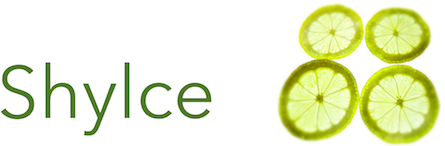
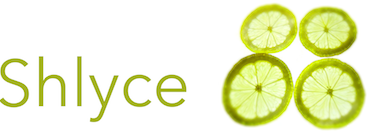
Spelling

diff --git a/benchmark.js b/benchmark.js
@@ -21,7 +21,7 @@ function genN() {
 }
 
 new Benchmark.Suite()
-.add('Shylce', () => {
+.add('Shlyce', () => {
   binarySearch(shlyce, genN());
 })
 .add('[].slice', () => {

diff --git a/README.md b/README.md
@@ -20,22 +20,22 @@ arr[1] === 99;
 
 Benchmarks
 ----------
-Shylce slices in constant time and space, while `Array.slice` returns a new array, requiring linear time and space to copy. This difference can speed up our code tremendously.
+Shlyce slices in constant time and space, while `Array.slice` returns a new array, requiring linear time and space to copy. This difference can speed up our code tremendously.
 
 Consider a [recursive binary search](./benchmark.js) of N elements:
 ```
 N=250,000
-Shylce x 21,719 ops/sec ±2.09% (76 runs sampled)
+Shlyce x 21,719 ops/sec ±2.09% (76 runs sampled)
 [].slice x 935 ops/sec ±2.63% (71 runs sampled)
 
 N=500,000
-Shylce x 20,628 ops/sec ±1.95% (80 runs sampled)
+Shlyce x 20,628 ops/sec ±1.95% (80 runs sampled)
 [].slice x 386 ops/sec ±2.77% (67 runs sampled)
 
 N=1,000,000
-Shylce x 18,481 ops/sec ±1.94% (76 runs sampled)
+Shlyce x 18,481 ops/sec ±1.94% (76 runs sampled)
 [].slice x 180 ops/sec ±2.72% (65 runs sampled)
-Fastest is Shylce
+Fastest is Shlyce
 ```
 
 Note that a well implemented binary search should run in O(log(n)) time. Using `[].slice` we only get O(n) time 'cause we're copying half the array for each slice.
